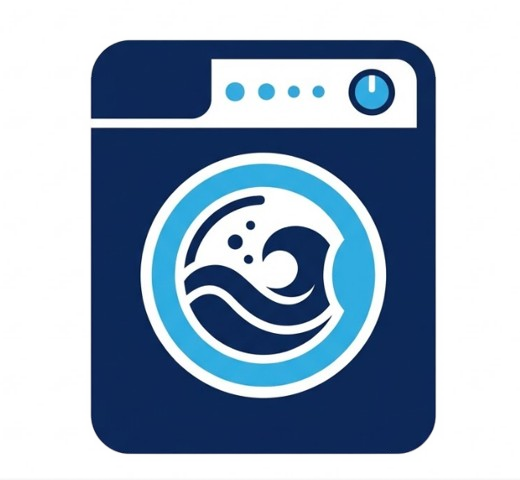
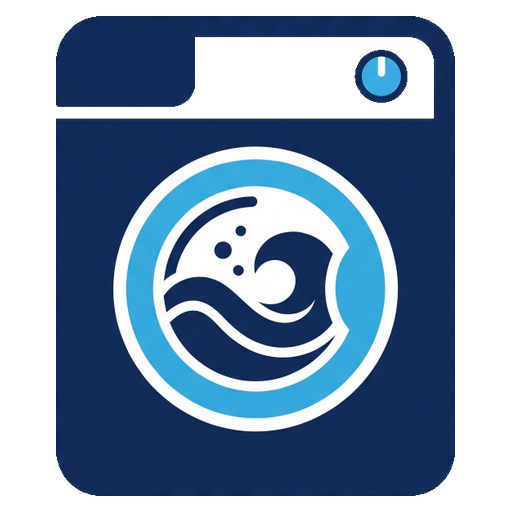
feat(branding): extract true transparent machine emblem without fake checkerboard background

diff --git a/src/components/admin/admin-sidebar.tsx b/src/components/admin/admin-sidebar.tsx
@@ -91,7 +91,7 @@ export function AdminSidebar() {
               alt="Washy"
               width={30}
               height={30}
-              className="rounded-[6px] object-contain"
+              className="object-contain"
             />
             <div>
               <span className="text-[15px] font-semibold tracking-tight text-[#1d1d1f] block leading-tight">
@@ -184,7 +184,7 @@ export function AdminSidebar() {
             alt="Washy"
             width={24}
             height={24}
-            className="rounded-[5px] object-contain"
+            className="object-contain"
           />
           <span className="text-[14px] font-semibold text-[#1d1d1f]">
             Washy Admin

diff --git a/src/app/(admin)/admin/login/page.tsx b/src/app/(admin)/admin/login/page.tsx
@@ -86,7 +86,7 @@ export default function AdminLoginPage() {
               alt="Washy"
               width={64}
               height={64}
-              className="rounded-[16px] object-contain shadow-sm"
+              className="object-contain"
             />
           </div>
           <h1 className="text-[24px] font-semibold text-[#1d1d1f] tracking-tight">

diff --git a/src/components/layout/footer.tsx b/src/components/layout/footer.tsx
@@ -24,7 +24,7 @@ export function Footer() {
                 alt="Washy"
                 width={32}
                 height={32}
-                className="rounded-[7px] object-contain"
+                className="object-contain"
               />
               <span className="text-[18px] font-semibold tracking-tight text-[#1d1d1f]">
                 Washy

diff --git a/src/components/layout/global-nav.tsx b/src/components/layout/global-nav.tsx
@@ -33,7 +33,7 @@ export function GlobalNav() {
               alt="Washy"
               width={26}
               height={26}
-              className="rounded-[6px] object-contain"
+              className="object-contain"
             />
             <span className="text-[14px] font-semibold tracking-tight text-white">
               Washy
